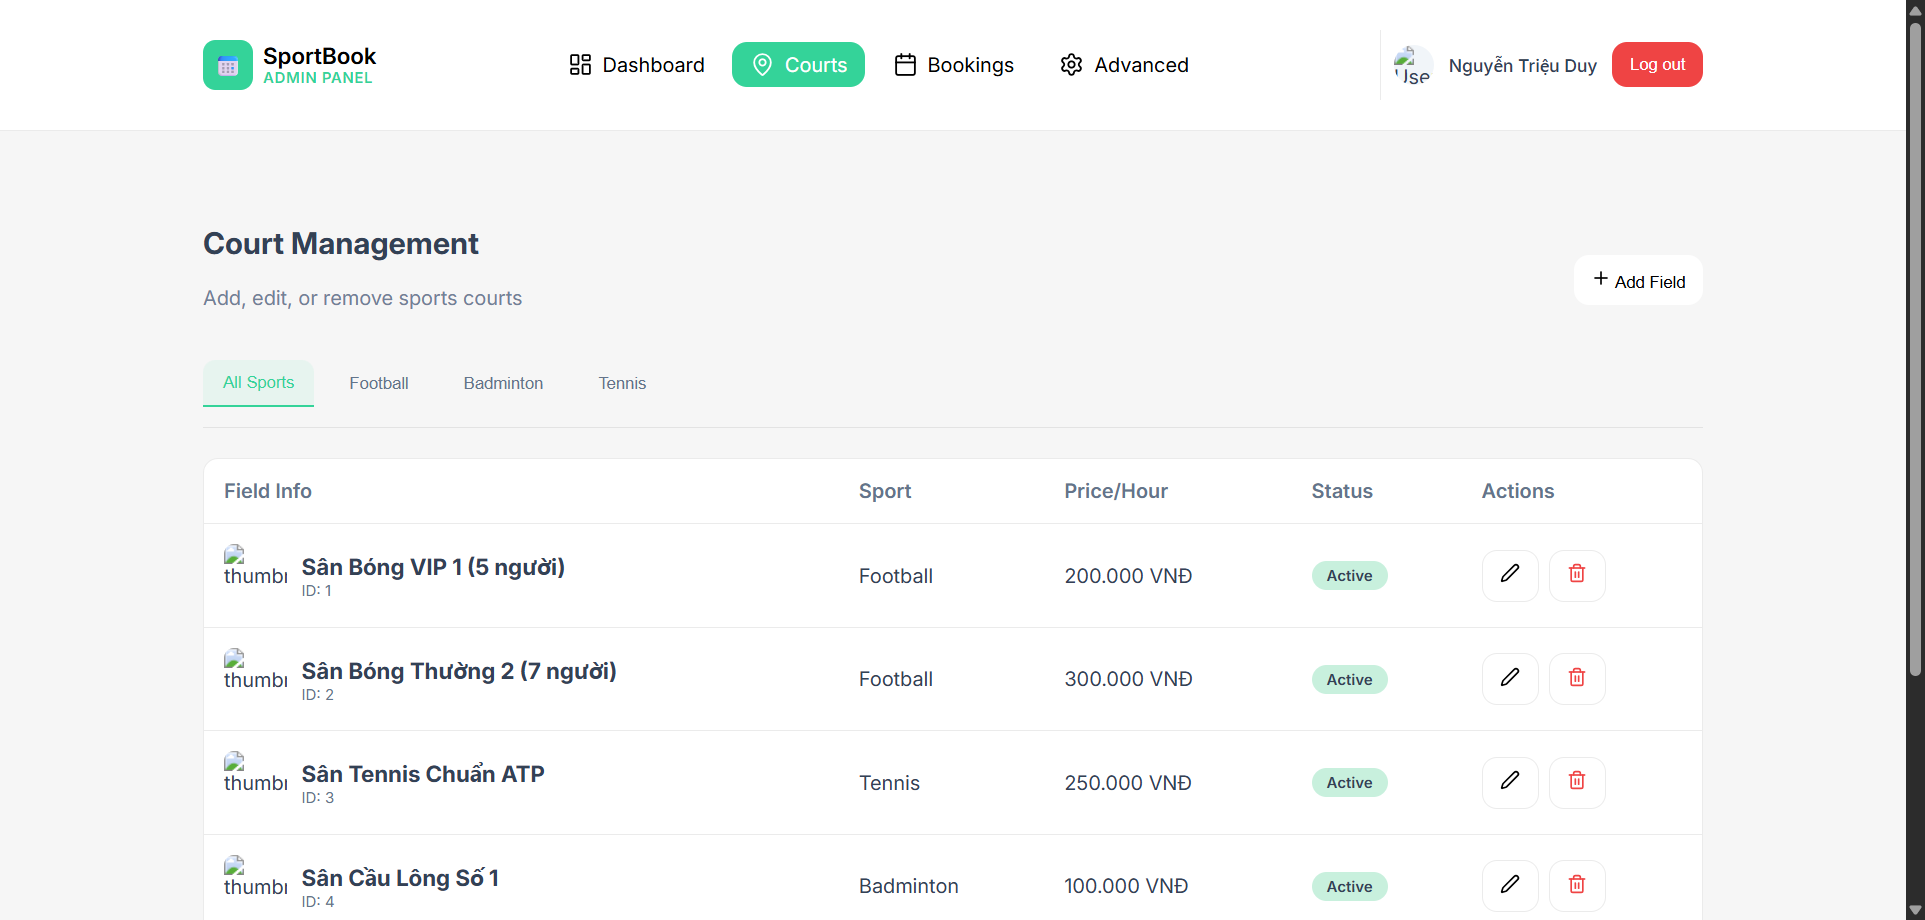
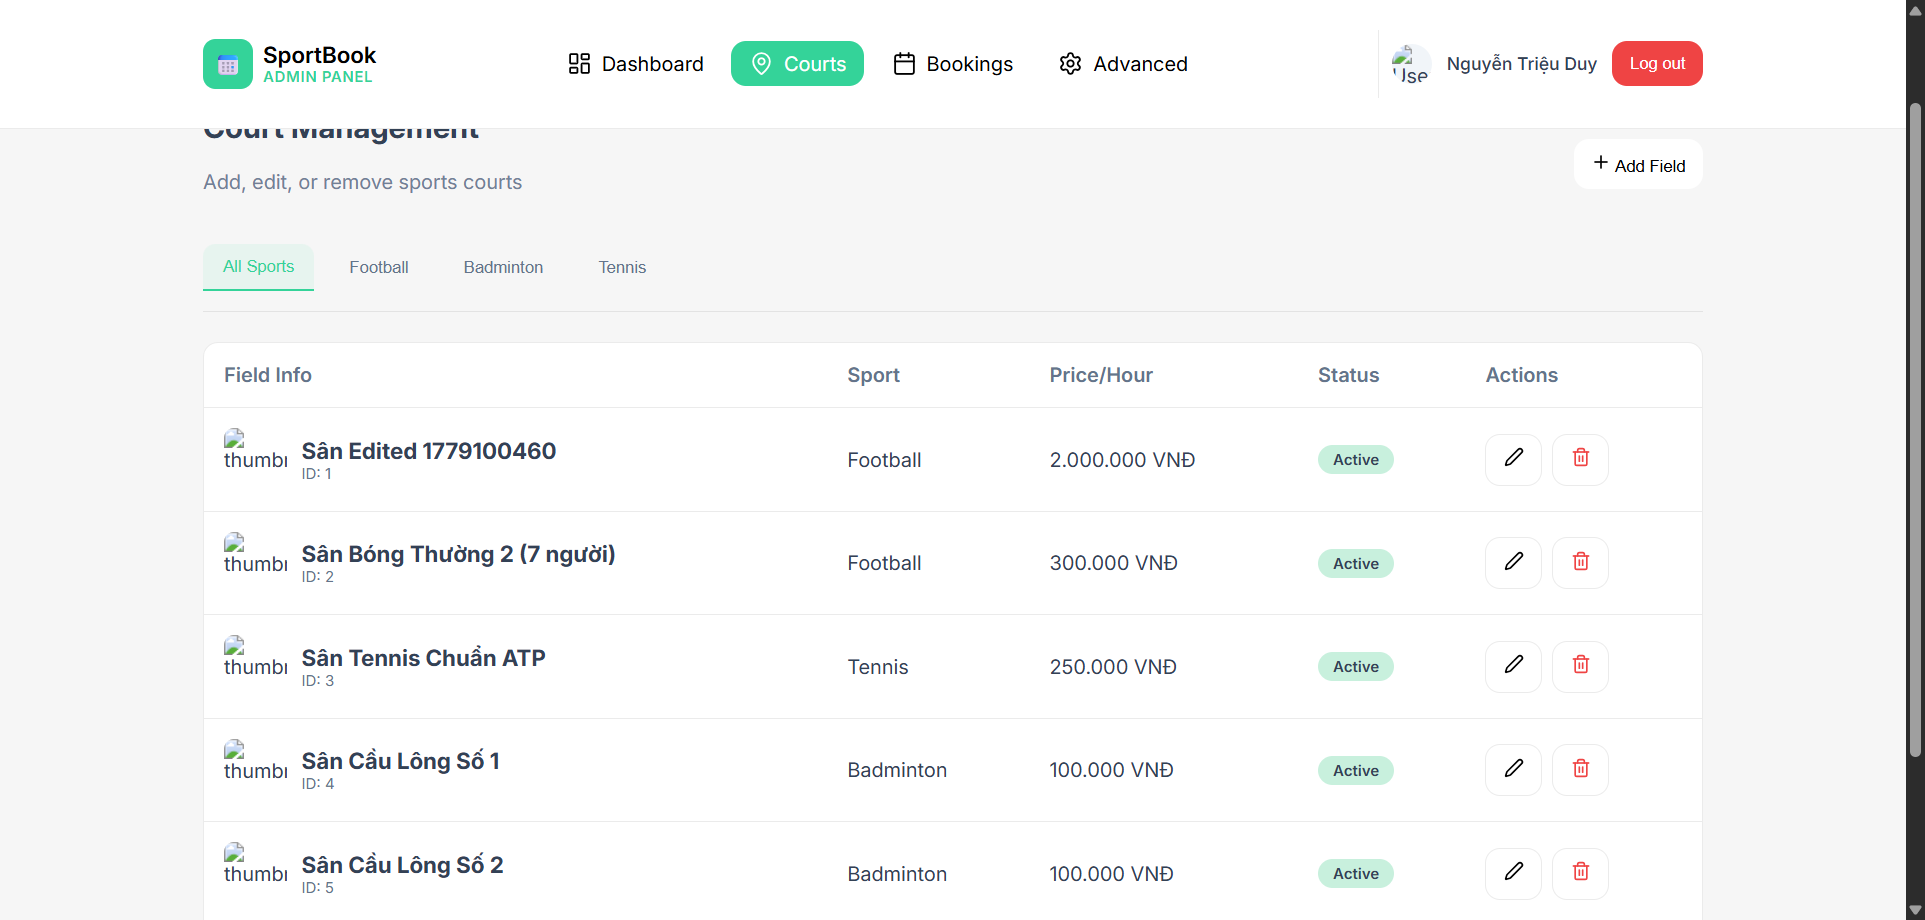
Add AdminCourtPage and update admin tests
Introduce a new AdminCourtPage page object and refactor AdminPage to provide shared helpers (react_typing, _scroll_and_js_click). Update admin tests to use AdminCourtPage, add TEST_IMAGE usage for file upload, replace plain typing with react_typing for React-driven inputs, and improve table/wait/delete flows (wait_table_loaded, go_to_last_page, click_delete_last). Add test asset (asset/Picture1.jpg) and several updated/new screenshots, and tweak conftest Chrome options to disable password manager UI/features.

diff --git a/tests/pages/AdminCourtPage.py b/tests/pages/AdminCourtPage.py
@@ -1,0 +1,92 @@
+from selenium.webdriver.common.by import By
+from tests.pages.AdminPage import AdminPage, BASE_URL
+
+
+class AdminCourtPage(AdminPage):
+    section = "admin"
+    URL = f"{BASE_URL}/admin/courts"
+
+    ADD_FIELD_BTN = (By.XPATH, "//button[contains(.,'Add Field')]")
+    FORM_CARD = (By.CSS_SELECTOR, ".field-form-card")
+    NAME_INPUT = (By.CSS_SELECTOR, ".field-form-card form > div:nth-child(1) > input")
+    PRICE_INPUT = (By.CSS_SELECTOR, "input[type='number']")
+    DESC_INPUT  = (By.CSS_SELECTOR, "textarea")
+    SAVE_BTN = (By.CSS_SELECTOR, ".form-actions button.btn-primary")
+
+    TAB_ALL  = (By.XPATH, "//button[contains(@class,'tab-btn') and contains(.,'All')]")
+    TAB_FOOTBALL  = (By.XPATH, "//button[contains(@class,'tab-btn') and contains(.,'Football')]")
+    TAB_BADMINTON = (By.XPATH, "//button[contains(@class,'tab-btn') and contains(.,'Badminton')]")
+    TAB_TENNIS = (By.XPATH, "//button[contains(@class,'tab-btn') and contains(.,'Tennis')]")
+
+    TABLE_ROWS = (By.CSS_SELECTOR, "table tbody tr")
+    EDIT_BTNS  = (By.CSS_SELECTOR, "table tbody tr td:last-child .table-actions button:first-child")
+    DELETE_BTNS = (By.CSS_SELECTOR, "table tbody tr td:last-child .table-actions button:last-child")
+    IMAGE_INPUT = (By.CSS_SELECTOR, "input[type='file']")
+
+    PAGINATION_NEXT = (By.XPATH,"//button[contains(@class,'pagination-btn') and contains(.,'Next') and not(@disabled)]")
+    PAGINATION_INFO = (By.CSS_SELECTOR, ".pagination-info")
+
+    LAST_ROW_BADGE = (By.CSS_SELECTOR, "table tbody tr:last-child .badge")
+
+    def open_page(self):
+        self.open(self.URL)
+
+    def go_to_last_page(self):
+        while True:
+            try:
+                self._scroll_and_js_click(*self.PAGINATION_NEXT)
+                import time;
+                time.sleep(0.5)
+            except Exception:
+                break
+
+    def get_last_row_status(self):
+        return self.find(*self.LAST_ROW_BADGE).text
+
+    def click_delete_last(self):
+        delete_btns = self.finds(*self.DELETE_BTNS)
+        last_btn = delete_btns[-1]
+        self.driver.execute_script("arguments[0].scrollIntoView({block: 'center'});", last_btn)
+        last_btn.click()
+
+    def click_add_field(self):
+        self._scroll_and_js_click(*self.ADD_FIELD_BTN)
+
+    def wait_table_loaded(self):
+        self.wait_visible(*self.TABLE_ROWS)
+
+    def wait_form_visible(self):
+        self.wait_visible(*self.FORM_CARD)
+
+    def fill_field_form(self, name, price, description, field_type="football", image_path=None):
+        self.wait_form_visible()
+        self.react_typing(*self.NAME_INPUT, name)
+        self.typing(*self.PRICE_INPUT, str(price))
+        self.typing(*self.DESC_INPUT, description)
+        if image_path:
+            self.find(*self.IMAGE_INPUT).send_keys(image_path)
+
+    def save_form(self):
+        el = self.scroll_to_element(*self.SAVE_BTN)
+        el.click()
+
+    def get_row_count(self):
+        try:
+            return len(self.finds(*self.TABLE_ROWS))
+        except Exception:
+            return 0
+
+    def click_edit_first(self):
+        self._scroll_and_js_click(*self.EDIT_BTNS)
+
+    def click_delete_first(self):
+        self._scroll_and_js_click(*self.DELETE_BTNS)
+
+    def filter_by_sport(self, sport):
+        tab_map = {
+            "all": self.TAB_ALL,
+            "football": self.TAB_FOOTBALL,
+            "badminton": self.TAB_BADMINTON,
+            "tennis": self.TAB_TENNIS,
+        }
+        self._scroll_and_js_click(*tab_map[sport])

diff --git a/tests/pages/AdminPage.py b/tests/pages/AdminPage.py
@@ -1,65 +1,22 @@
-from selenium.webdriver.common.by import By
 from tests.pages.BasePage import BasePage, BASE_URL
 
 
-class AdminCourtPage(BasePage):
+class AdminPage(BasePage):
     section = "admin"
-    URL = f"{BASE_URL}/admin/courts"
+    BASE_ADMIN_URL = f"{BASE_URL}/admin"
 
-    ADD_FIELD_BTN = (By.XPATH, "//button[contains(.,'Add Field')]")
-    CANCEL_FORM_BTN = (By.XPATH, "//button[contains(.,'Cancel')]")
+    def _scroll_and_js_click(self, by, value):
+        el = self.scroll_to_element(by, value)
+        self.driver.execute_script("arguments[0].click();", el)
 
-    NAME_INPUT = (By.CSS_SELECTOR, "input[placeholder*='Football Pitch'], input[placeholder*='Pitch']")
-    PRICE_INPUT = (By.CSS_SELECTOR, "input[type='number']")
-    DESC_INPUT = (By.CSS_SELECTOR, "textarea")
-    TYPE_SELECT = (By.CSS_SELECTOR, "select[name='field_type'], select")
-    IMAGE_INPUT = (By.CSS_SELECTOR, "input[type='file']")
-    SAVE_BTN = (By.CSS_SELECTOR, "button[type='submit']")
-
-    TAB_ALL = (By.XPATH, "//button[contains(@class,'tab-btn') and contains(.,'All')]")
-    TAB_FOOTBALL = (By.XPATH, "//button[contains(@class,'tab-btn') and contains(.,'Football')]")
-    TAB_BADMINTON = (By.XPATH, "//button[contains(@class,'tab-btn') and contains(.,'Badminton')]")
-    TAB_TENNIS = (By.XPATH, "//button[contains(@class,'tab-btn') and contains(.,'Tennis')]")
-
-    TABLE_ROWS = (By.CSS_SELECTOR, "table tbody tr, .field-table tbody tr")
-    EDIT_BTNS = (By.CSS_SELECTOR, "table tbody tr td:last-child .table-actions button:first-child")
-    DELETE_BTNS = (By.CSS_SELECTOR, "table tbody tr td:last-child .table-actions button:last-child")
-
-    def open_page(self):
-        self.open(self.URL)
-
-    def click_add_field(self):
-        self.click(*self.ADD_FIELD_BTN)
-
-    def wait_table_loaded(self):
-        self.wait_visible(*self.TABLE_ROWS)
-
-    def fill_field_form(self, name, price, description, field_type="football"):
-        self.typing(*self.NAME_INPUT, name)
-        self.typing(*self.PRICE_INPUT, str(price))
-        self.typing(*self.DESC_INPUT, description)
-
-    def save_form(self):
-        self.click(*self.SAVE_BTN)
-
-    def get_row_count(self):
-        try:
-            rows = self.finds(*self.TABLE_ROWS)
-            return len(rows)
-        except Exception:
-            return 0
-
-    def click_edit_first(self):
-        self.click(*self.EDIT_BTNS)
-
-    def click_delete_first(self):
-        self.click(*self.DELETE_BTNS)
-
-    def filter_by_sport(self, sport):
-        tab_map = {
-            "all": self.TAB_ALL,
-            "football": self.TAB_FOOTBALL,
-            "badminton": self.TAB_BADMINTON,
-            "tennis": self.TAB_TENNIS,
-        }
-        self.click(*tab_map[sport])
+    def react_typing(self, by, value, text):
+        el = self.find(by, value)
+        el.click()
+        self.driver.execute_script("""
+            var el = arguments[0];
+            var nativeInputValueSetter = Object.getOwnPropertyDescriptor(
+                window.HTMLInputElement.prototype, 'value').set;
+            nativeInputValueSetter.call(el, arguments[1]);
+            el.dispatchEvent(new Event('input', { bubbles: true }));
+            el.dispatchEvent(new Event('change', { bubbles: true }));
+        """, el, text)

diff --git a/tests/admin/test_sel_admin.py b/tests/admin/test_sel_admin.py
@@ -1,6 +1,11 @@
 import pytest
 from tests.pages.LoginPage import LoginPage
-from tests.pages.AdminPage import AdminCourtPage
+from tests.pages import AdminPage
+from tests.pages.AdminCourtPage import AdminCourtPage
+import time
+import os
+TEST_IMAGE = os.path.join(os.path.dirname(os.path.dirname(os.path.dirname(os.path.abspath(__file__)))),
+                          "asset", "Picture1.jpg")
 
 
 def login_as_admin(driver, username="duyadmin", password="123456"):
@@ -55,9 +60,11 @@ def test_admin_add_new_court(driver):
     admin.fill_field_form(
         name=f"Sân Test {int(time.time())}",
         price=200000,
-        description="Sân test"
-    )
+        description="Sân test",
+        image_path=TEST_IMAGE
+            )
     admin.save_form()
+
 
     try:
         driver.switch_to.alert.accept()
@@ -82,10 +89,11 @@ def test_admin_edit_court(driver):
         pytest.skip("Không có sân nào để sửa")
 
     admin.click_edit_first()
+    admin.wait_form_visible()
     admin.screenshot("TC_ADM_06_edit_form_open")
 
-    import time
-    admin.typing(*admin.NAME_INPUT, f"Sân Edited {int(time.time())}")
+
+    admin.react_typing(*admin.NAME_INPUT, f"Sân Edited {int(time.time())}")
     admin.save_form()
     admin.accept_alert()
 
@@ -125,47 +133,35 @@ def test_admin_delete_court_with_past_bookings(driver):
 
 # TC_ADM_10
 def test_admin_delete_court_no_bookings(driver):
-
     import time
     login_as_admin(driver)
 
     admin = AdminCourtPage(driver)
     admin.open_page()
 
-    # Thêm 1 sân mới (chắc chắn chưa có booking)
     admin.click_add_field()
     new_name = f"SanTempDelete_{int(time.time())}"
-    admin.fill_field_form(name=new_name, price=100000, description="Temp")
+    admin.fill_field_form(name=new_name, price=100000, description="Temp", image_path=TEST_IMAGE)
     admin.save_form()
-    try:
-        driver.switch_to.alert.accept()
-    except Exception:
-        pass
+    admin.accept_alert()
 
     admin.open_page()
-    count_before = admin.get_row_count()
+    admin.wait_table_loaded()
     admin.screenshot("TC_ADM_10_before_delete_no_booking_court")
 
-    delete_btns = admin.finds(*admin.DELETE_BTNS)
-    if not delete_btns:
-        pytest.skip("Không tìm thấy nút Delete")
-    delete_btns[-1].click()
+    admin.go_to_last_page()
+    admin.wait_table_loaded()
 
-    try:
-        driver.switch_to.alert.accept()
-    except Exception:
-        pass
-    try:
-        driver.switch_to.alert.accept()
-    except Exception:
-        pass
+    admin.click_delete_last()
+    admin.accept_alert()  # confirm
+    admin.accept_alert()
 
+    admin.wait_table_loaded()
     admin.screenshot("TC_ADM_10_after_delete_no_booking_court")
 
-    count_after = admin.get_row_count()
-    assert count_after < count_before, \
-        "Số sân không giảm — xóa sân chưa có booking thất bại"
-
+    status = admin.get_last_row_status()
+    assert status == "Inactive", \
+        f"Sân chưa được deactivate — status hiện tại: {status}"
 
 # TC_ADM_07
 def test_admin_set_court_to_maintenance(driver):

diff --git a/conftest.py b/conftest.py
@@ -13,8 +13,12 @@ def driver():
     options.add_argument("--window-size=1920,1080")
     options.add_experimental_option("prefs", {
         "credentials_enable_service": False,
-        "profile.password_manager_enabled": False
+        "profile.password_manager_enabled": False,
+        "profile.password_manager_leak_detection": False,
+        "autofill.profile_enabled": False,
     })
+    options.add_argument("--disable-save-password-bubble")
+    options.add_argument("--disable-features=PasswordManagerOnboarding")
 
     base_dir = os.path.dirname(os.path.abspath(__file__))
     driver_path_windows = os.path.join(base_dir, '.venv', 'chromedriver.exe')
